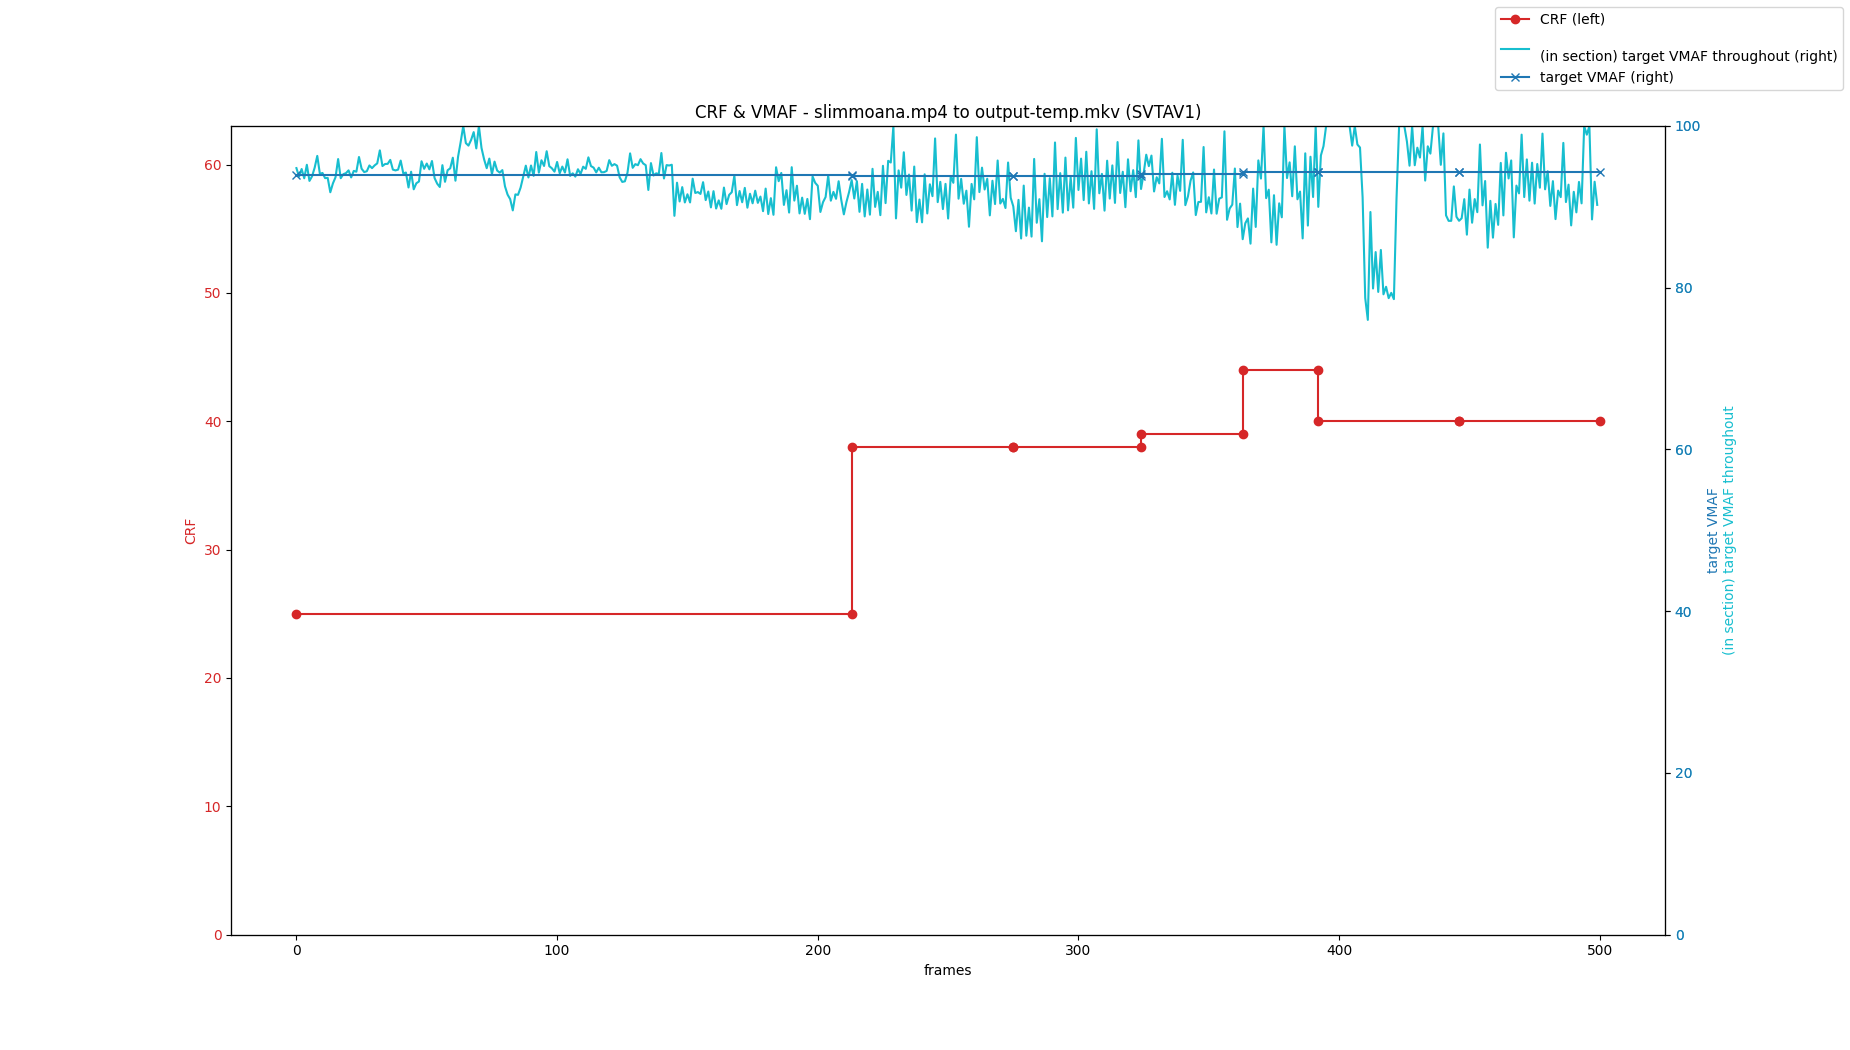
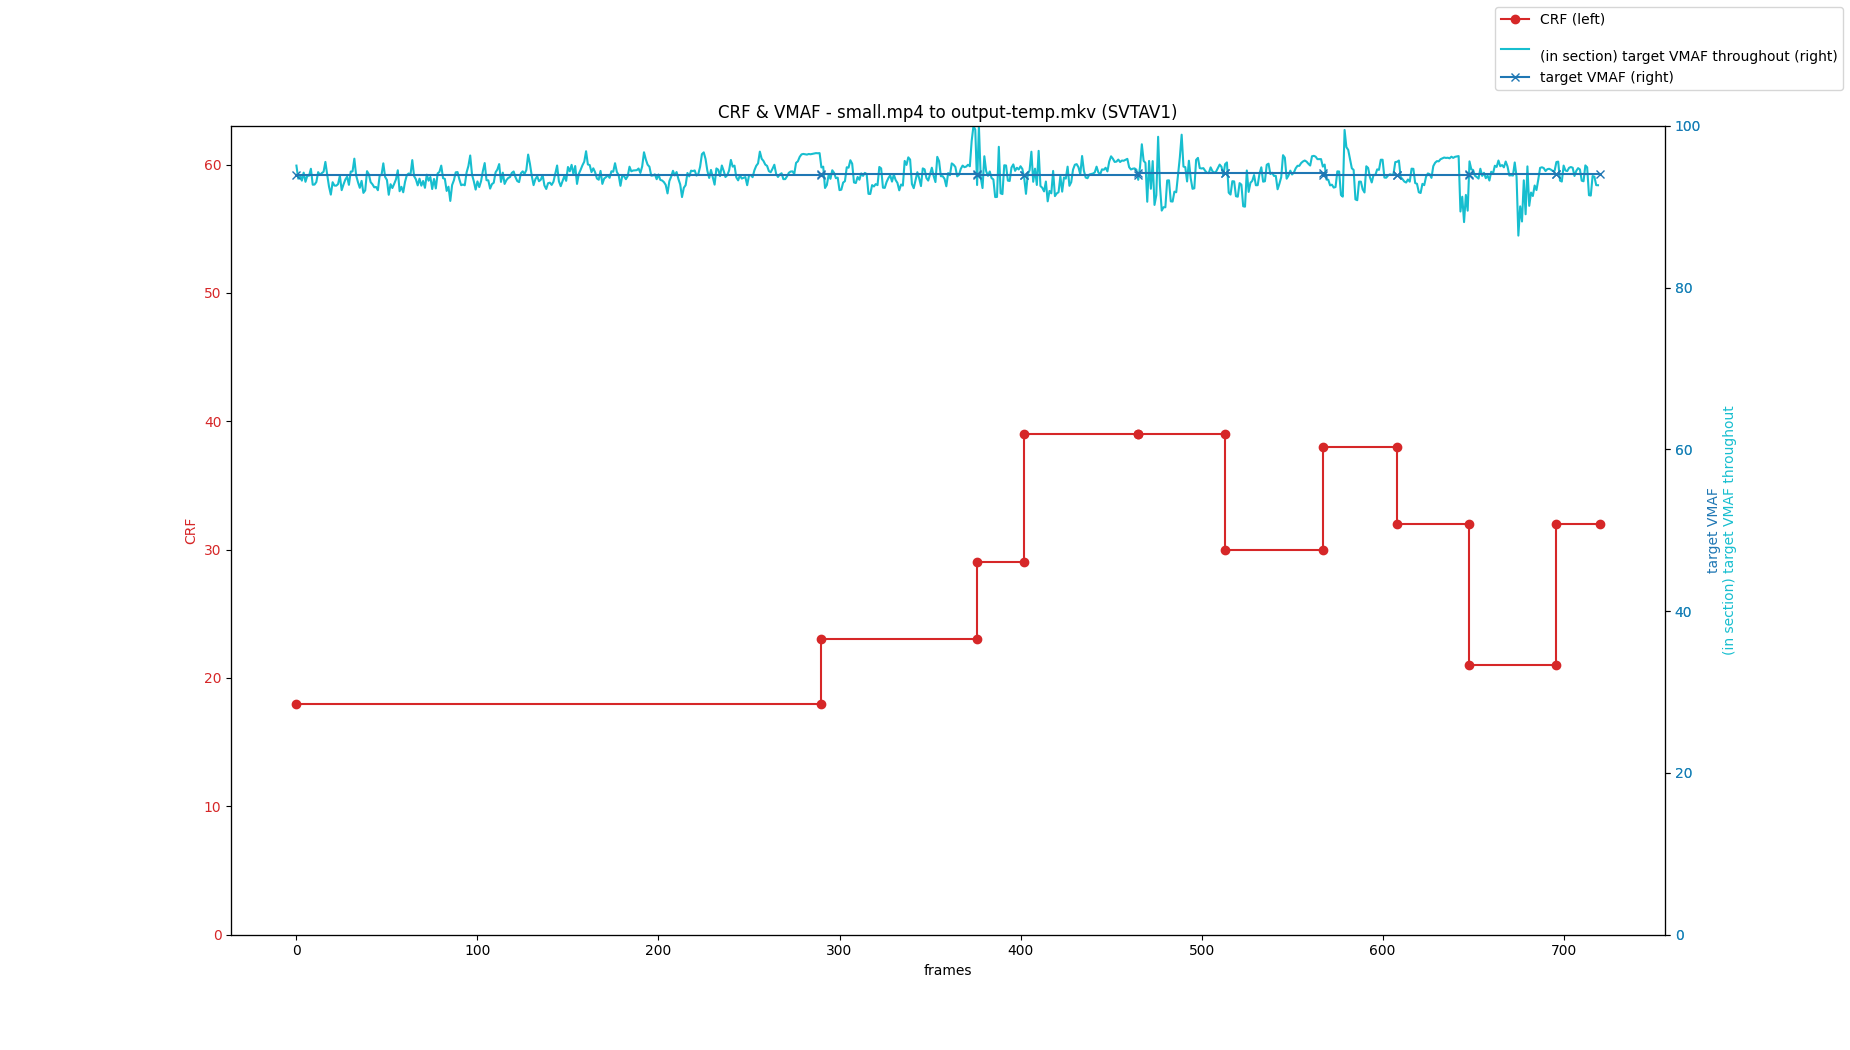
removed unnecessary imports

diff --git a/src/main_program.py b/src/main_program.py
@@ -23,7 +23,7 @@ vapoursynth_script: str = "\n".join(
 
 def main() -> None:
     video_input = videodata.RawVideoData(
-        input_filename=Path("slimmoana.mp4"),
+        input_filename=Path("small.mp4"),
         output_filename=Path("output-temp.mkv"),
         vapoursynth_script=videodata.vapoursynth_data(
             vapoursynth_script=vapoursynth_script,

diff --git a/src/ffmpeg.py b/src/ffmpeg.py
@@ -1,6 +1,5 @@
-import enum
 import subprocess
-from typing_extensions import Literal
+from typing import Literal
 
 # from typing_extensions import override
 import file_cache
